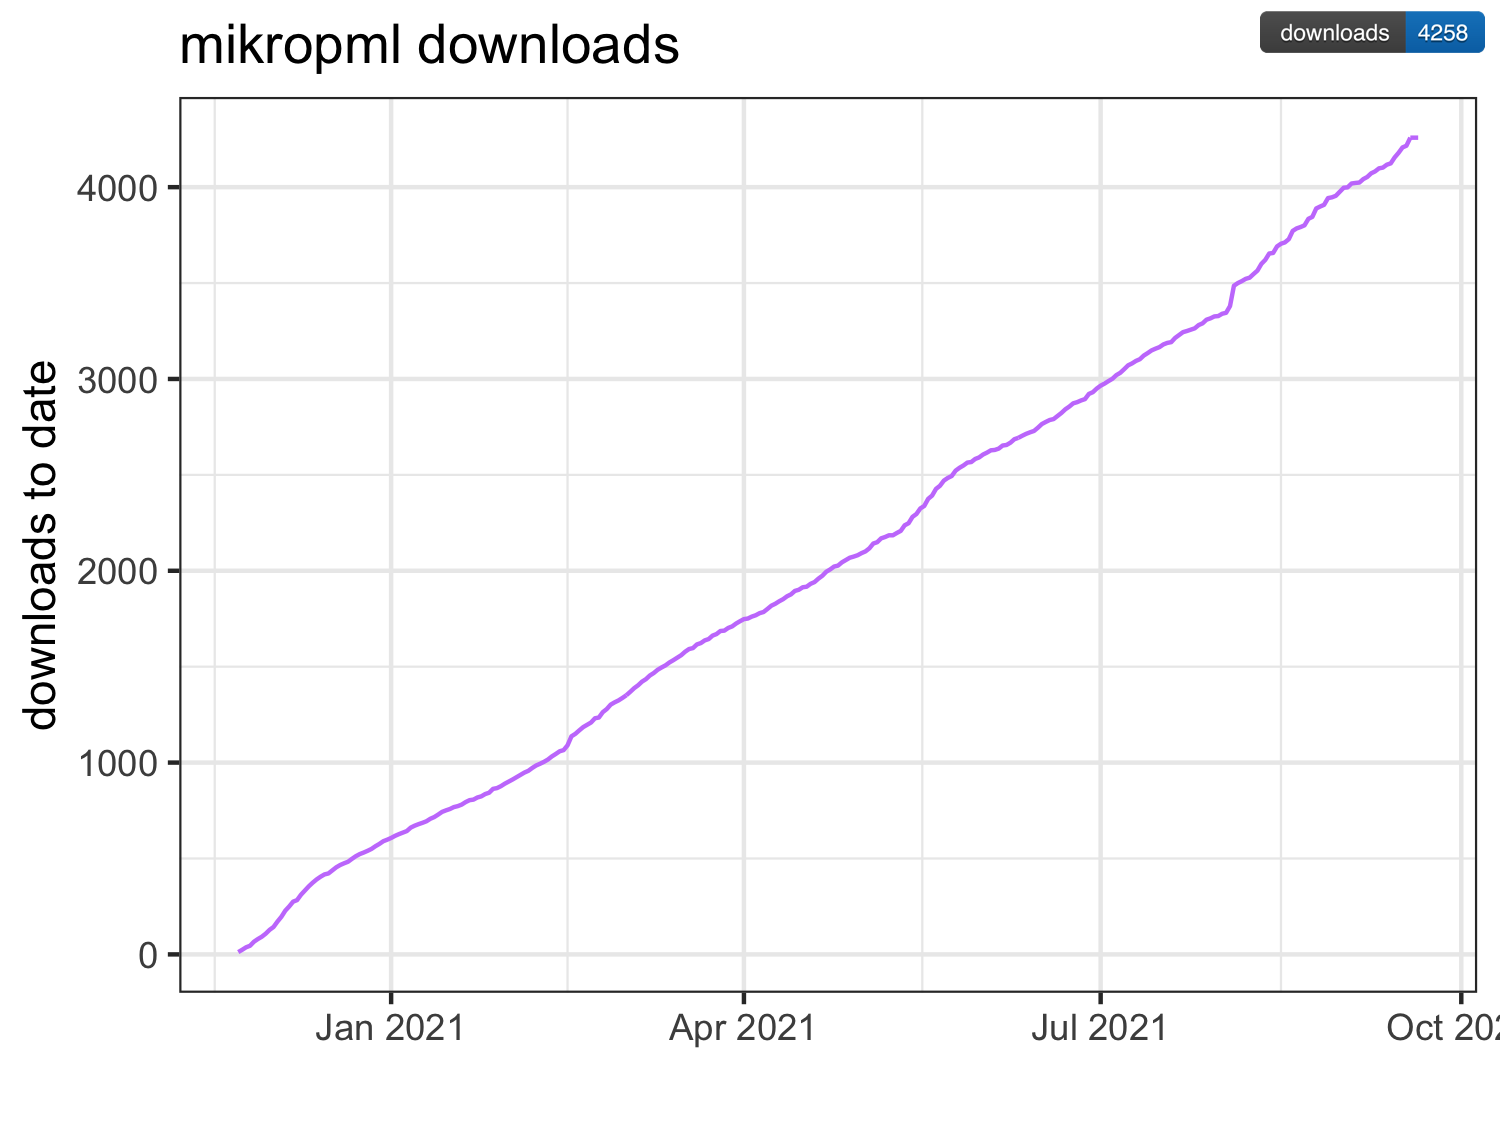
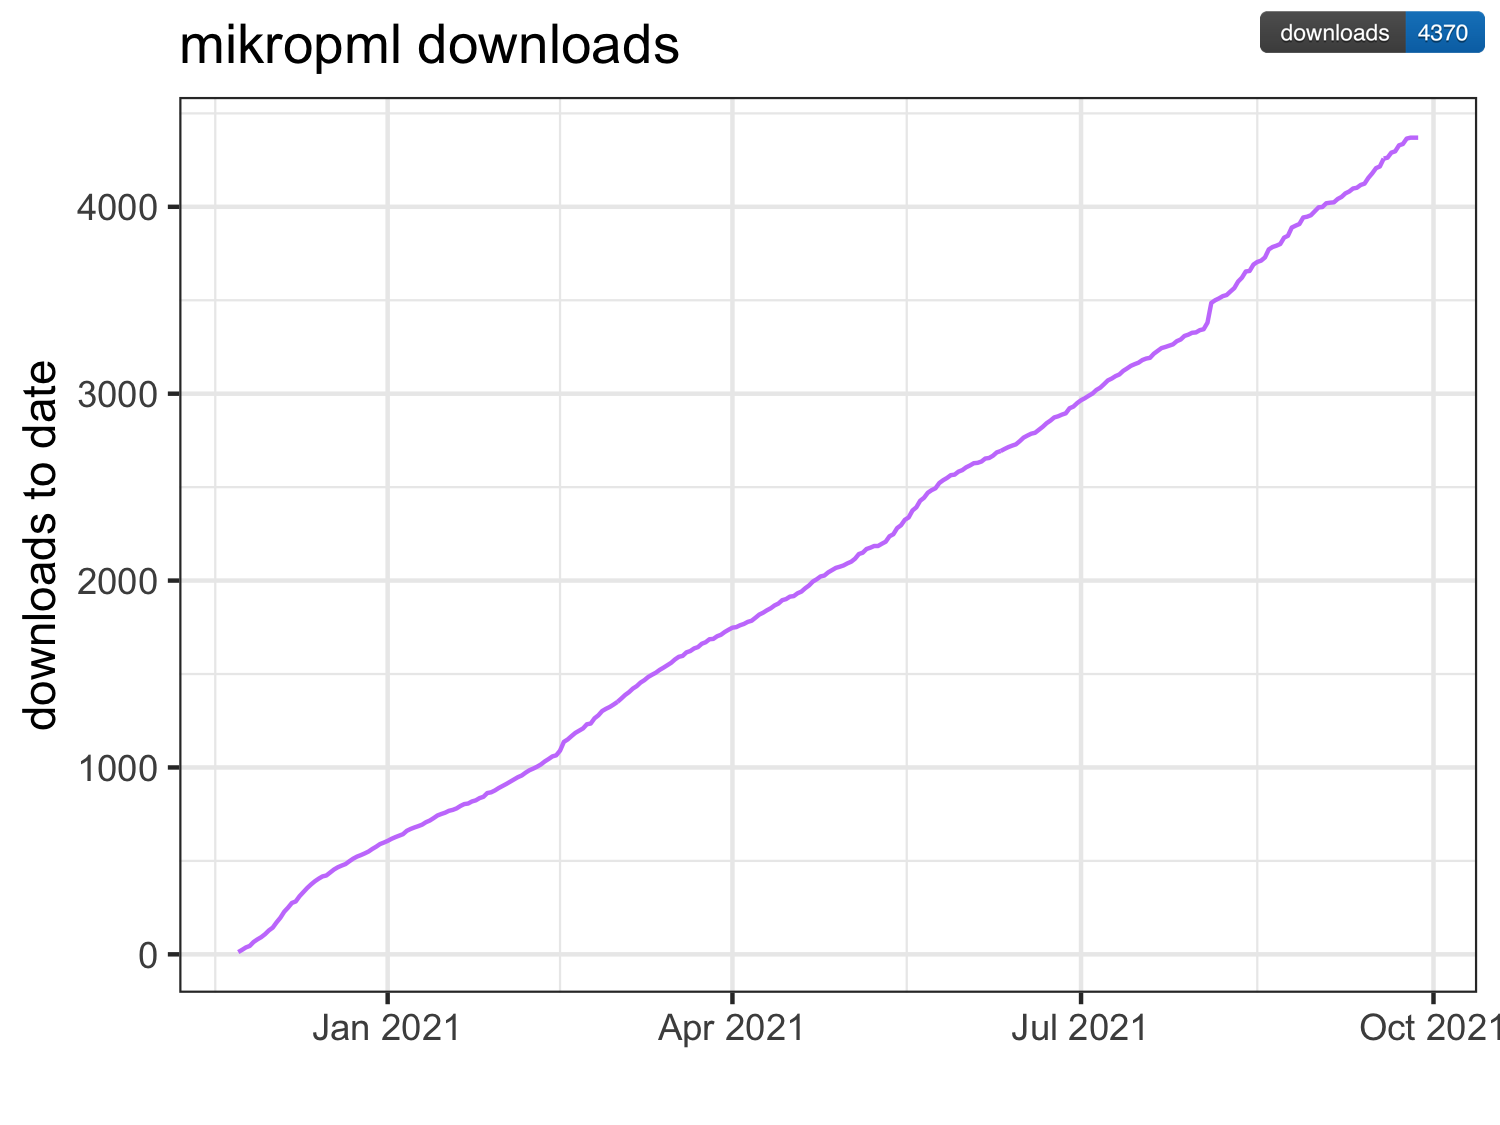
Re-build Rmarkdown files

diff --git a/README.md b/README.md
@@ -65,4 +65,4 @@ ggdraw() +
 
 ![](figures/plot-downloads-time-1.png)<!-- -->
 
-last updated: 2021-09-20
+last updated: 2021-09-27
